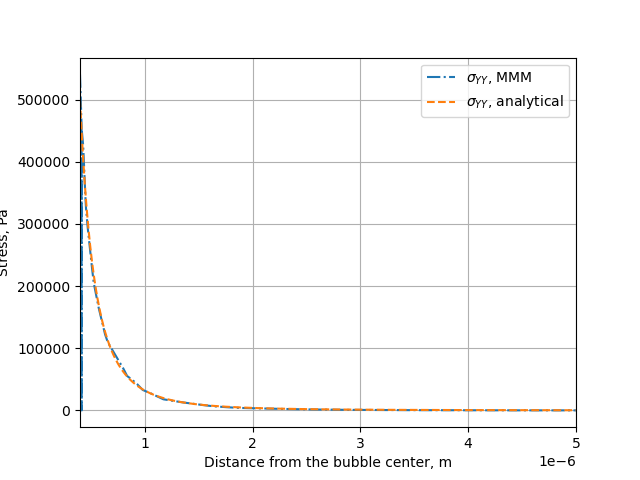
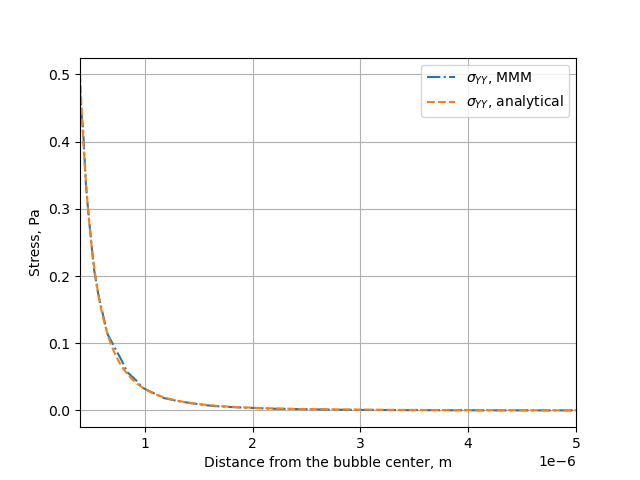
fix comparison tests for the bubble test case

diff --git a/bubble/verification/mmm_vs_analytical.py b/bubble/verification/mmm_vs_analytical.py
@@ -9,7 +9,7 @@ bubble_radius = 400e-9
 rev_side_length = 10e-6
 bubble_center = (bubble_radius, 0., 0.)
 end_point_rev = (rev_side_length/2, 0., 0.)
-bubble_pressure = 1e6
+bubble_pressure = 1 # 1e6
 
 data_mmm = pv.read(file_pvd)
 data_simulation = data_mmm[0]  # first timestep
@@ -36,3 +36,23 @@ plt.legend()
 plt.grid(True)
 plt.savefig('comparison.png')
 plt.close()
+
+
+### Comparison
+
+tolerance = 100 #%
+
+# Calcul de l'écart relatif en %
+RelDiff = np.abs((stress_tt - analytical_hoop_stress) / analytical_hoop_stress * 100)
+
+# Définition du statut
+Status = np.where( RelDiff <= tolerance, 'OK', 'MISMATCH')
+
+
+# Check if the 'Status' column contains any "MISMATCH"
+if (Status == 'MISMATCH').any():
+    print("There is at least one MISMATCH in the data!")
+    print(RelDiff)
+    print(Status)
+else:
+    print("Check PASS.")
